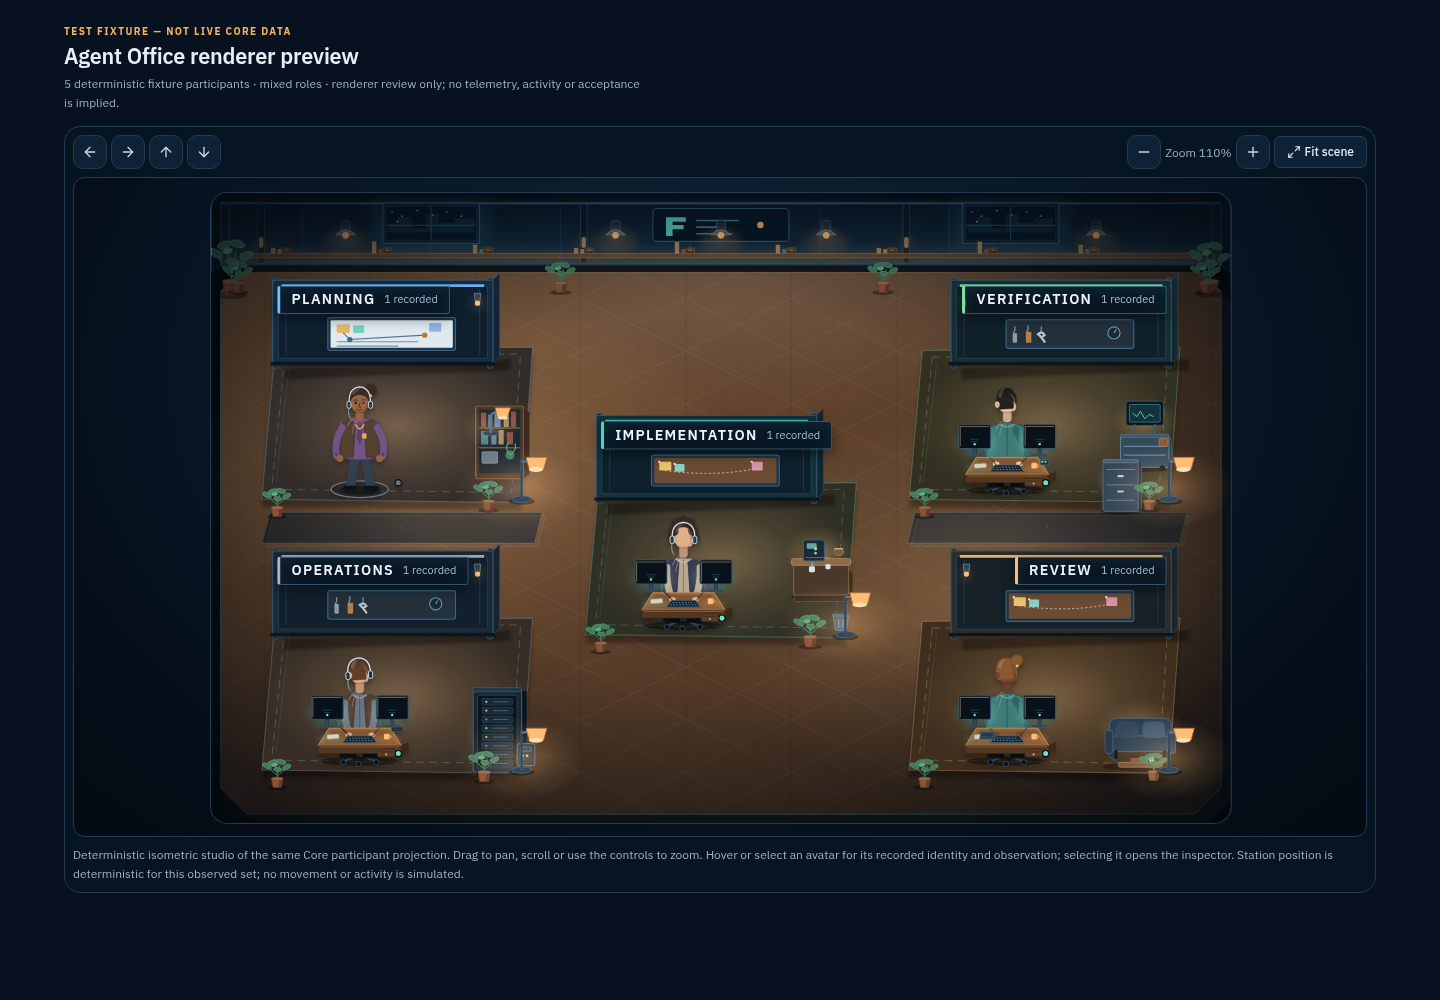
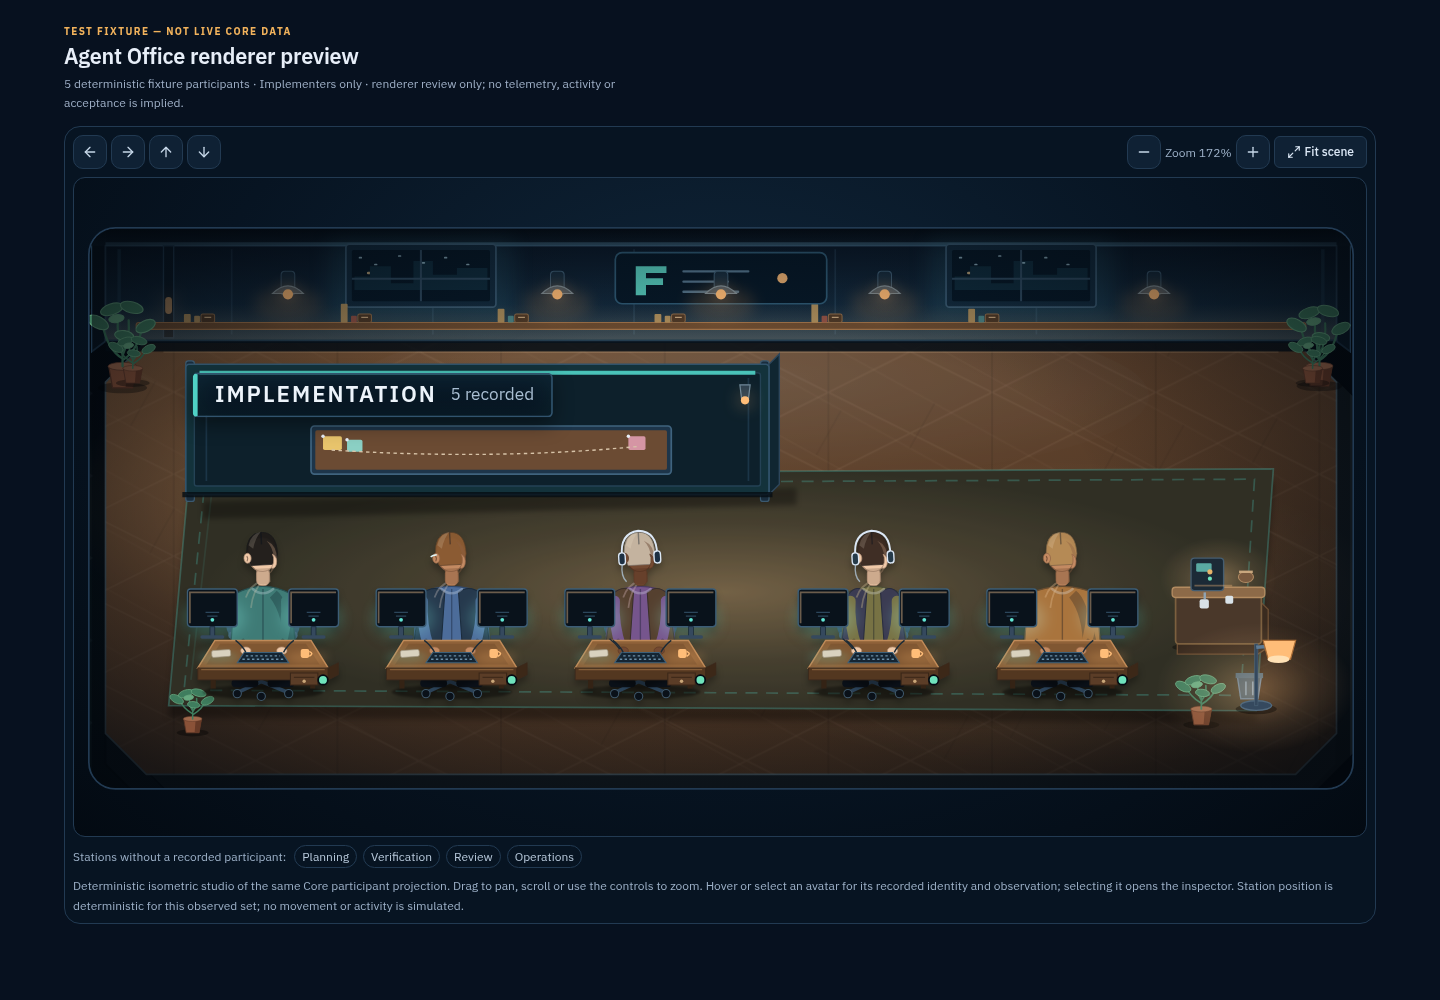
docs(office): refresh V3 renderer evidence

diff --git a/docs/evidence/agent-office-isometric-v3-2026-10-29/README.md b/docs/evidence/agent-office-isometric-v3-2026-10-29/README.md
@@ -2,10 +2,13 @@
 
 ## Candidate and scope
 
-Source candidate: `5961f0ba8411929ffe6bd55be8c58bfac57c94da` on
-`factory/office-isometric-v3/20261029`. The code was not changed after these
-captures; this evidence document and its PNGs are a separate documentation
-commit.
+Source candidate: `e31e46298b42f13e80701913b43878336587ccb8` on
+`factory/office-isometric-v3/20261029`. This includes the V3 studio renderer
+and a follow-up fix for the 49+ participant non-terminating look assignment.
+The replacement remains stable for the same participant set and provides
+distinct palette combinations through the current 200-participant projection.
+Screenshots in this evidence commit were captured
+from that exact tracked source snapshot.
 
 V3 replaces the individual flat role rooms with a continuous studio deck and
 isometric floor grid. The renderer adds wall windows, sconces and light pools,
@@ -24,9 +27,9 @@ Playwright Core 1.64.1.
 
 | Screenshot | Viewport | Fixture participants | Observed renderer result |
 | --- | ---: | ---: | --- |
-| [Desktop](desktop-1440.png) | 1440 × 1000 | 5 mixed roles | 5 avatars and 5 identity controls; no document overflow or browser errors |
+| [Desktop](desktop-1440.png) | 1440 × 1000 | 5 Implementers | 5 avatars and 5 identity controls; no document overflow or browser errors |
 | [Tablet](tablet-834.png) | 834 × 1112 | 12 mixed roles | 12 avatars and 12 identity controls; no document overflow or browser errors |
-| [Mobile](mobile-390.png) | 390 × 844 | 5 mixed roles | 5 avatars and 5 identity controls; full studio centered at 35% zoom; no document overflow or browser errors |
+| [Mobile](mobile-390.png) | 390 × 844 | 5 Implementers | 5 avatars and 5 identity controls; full studio centered at 35% zoom; no document overflow or browser errors |
 
 The mobile capture exposed and then verified a camera-fit fix: the previous
 55% fit floor cropped both sides of the studio on a narrow viewport. The fit
@@ -42,10 +45,11 @@ reference. These captures do **not** establish Product Owner visual acceptance.
 
 The current SVG/DOM renderer remains adequate for the tested 0, 1, 5, 12 and 30
 participant layouts. Automated rendering tests verify one distinct avatar per
-participant identity and stable, non-overlapping station slots; browser captures
-show responsive camera behavior through 12 participants. No evidence currently
-shows that a different rendering engine is needed to meet the 30-agent layout
-requirement.
+participant identity and stable, non-overlapping station slots. Regression
+coverage checks 200 distinct palette combinations and exercises a 200-record
+layout without collision probing. Browser captures show responsive camera
+behavior through 12 participants. No evidence currently shows that a different
+rendering engine is needed to meet the 30-agent layout requirement.
 
 No PixiJS or alternate-engine spike was run. The visible gap against the
 reference is chiefly in illustration fidelity, material lighting and perceived
@@ -63,11 +67,12 @@ files matched the source candidate exactly:
 
 - `npm --prefix office run typecheck` — PASS
 - `npm --prefix office run lint` — PASS, Biome checked 141 files
-- `npm --prefix office run test -- --reporter=dot` — PASS, 266 tests in 35 files
+- `npm --prefix office run test -- --reporter=dot` — PASS, 268 tests in 35 files
 - `npm --prefix office run build` — PASS; Vite reports the existing 1.2 MB main
   JavaScript chunk warning
 - Playwright Chromium renderer capture — PASS for the three viewport cases
-  above; fixture only, no live Core or API calls
+  above; assertions checked participant counts, fixture banner, no document
+  overflow and no page errors. Fixture only, no live Core or API calls.
 
 The Office component tests cover keyboard and selection behavior, camera
 controls, identity mapping and layouts at 0/1/5/12/30 participants. The
